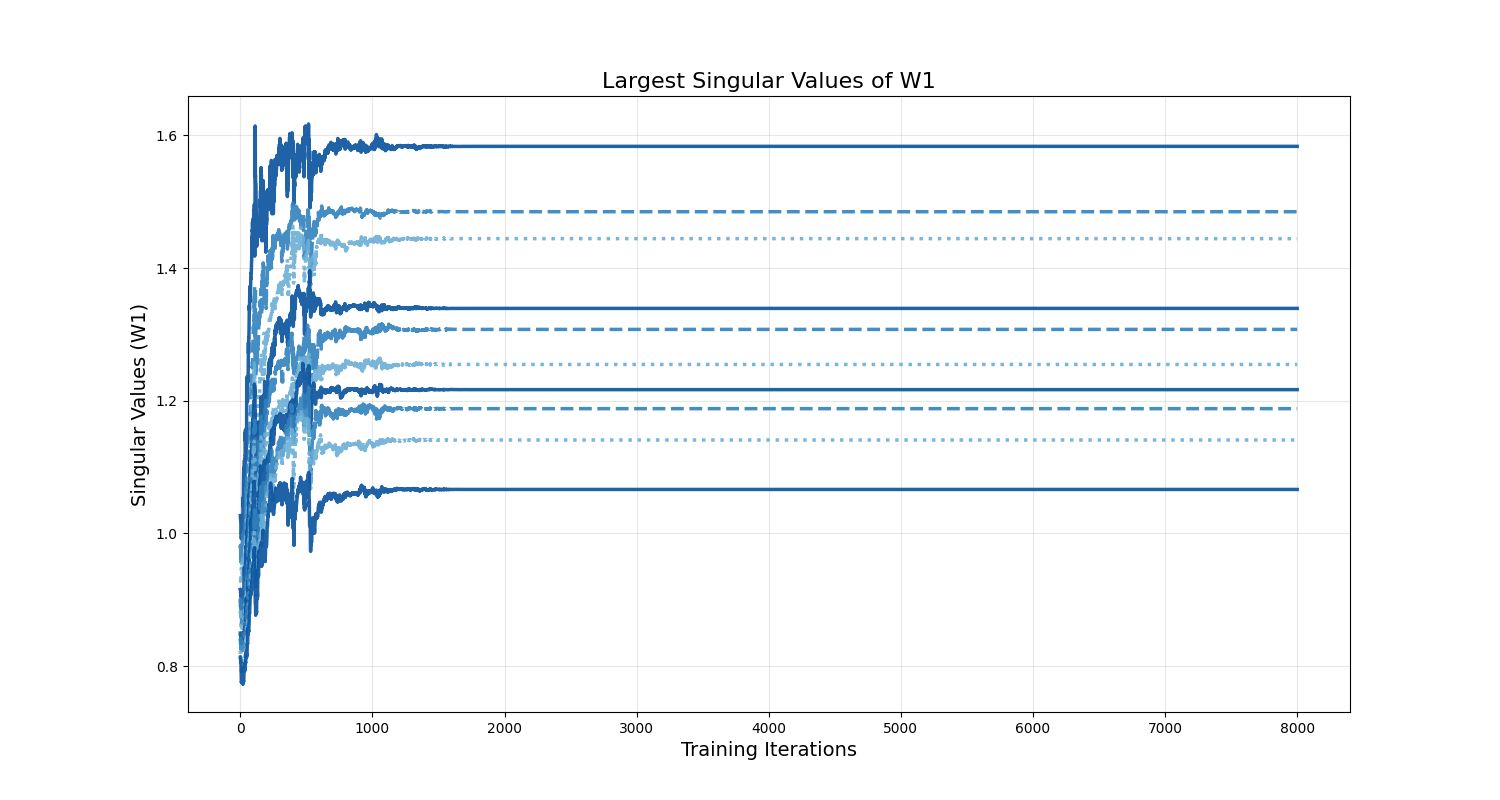
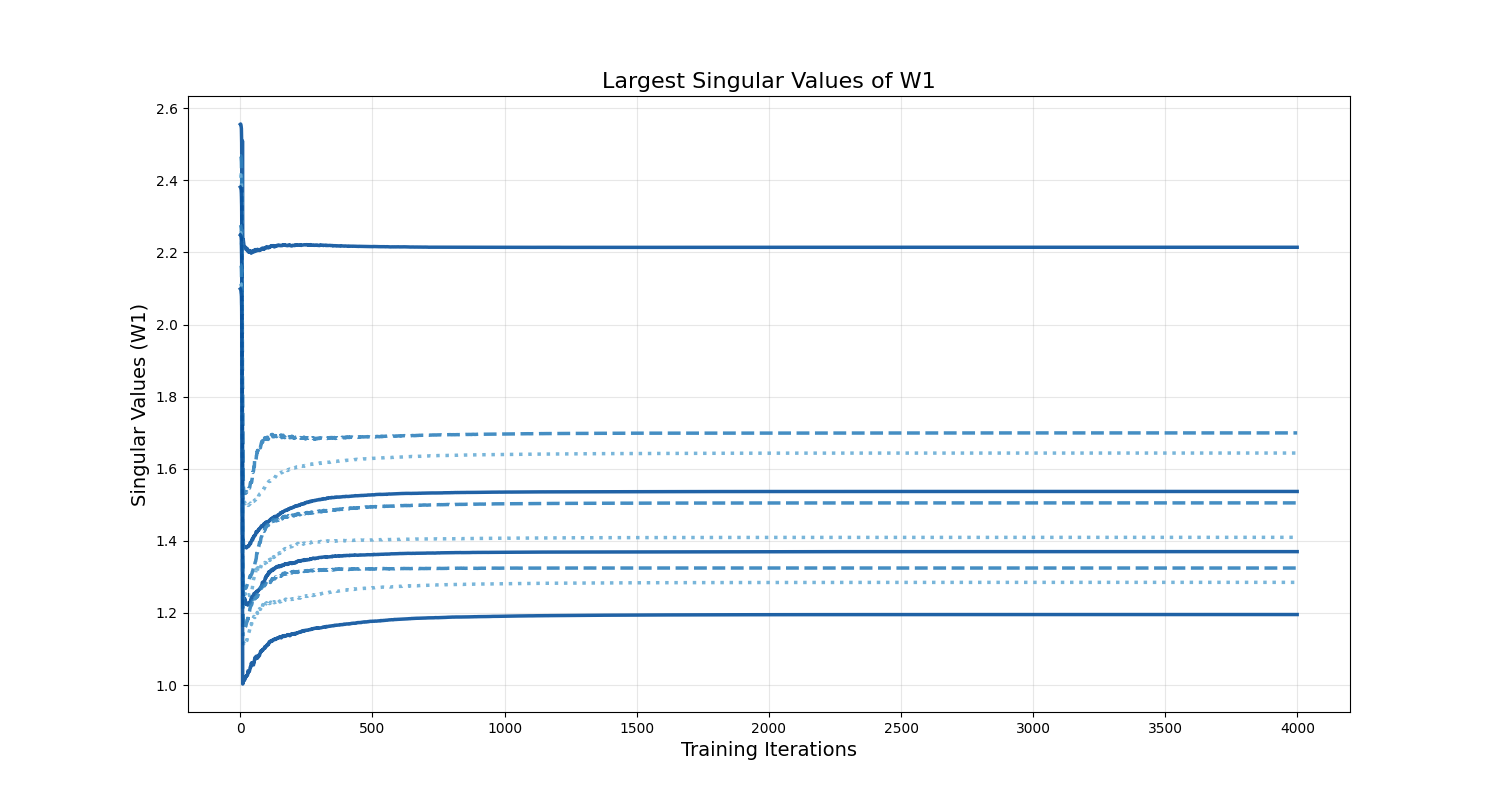
fixed overfitting

diff --git a/main.py b/main.py
@@ -10,19 +10,19 @@ from utils import generate_viz_2
 np.random.seed(23)
 torch.manual_seed(23)
 
-INPUT_DIM = 100
-NUM_SAMPLES = 1000
-TYPE = 'ls'
+INPUT_DIM = 20
+NUM_SAMPLES = 500
+TYPE = 'hs'
 
 def experiment1():
   print("Generating Dataset...")
   train_dataset, test_dataset = generate_data(NUM_SAMPLES, INPUT_DIM, type=TYPE)
 
   print("Training Catapult Model...")
-  exp = train_model(train_dataset, test_dataset, 0.22, 500, weight_decay=0.00)
+  exp = train_model(train_dataset, test_dataset, 0.1, 500, weight_decay=0.00)
 
   print("Training Control Model...")
-  ctrl = train_model(train_dataset, test_dataset, 0.0008, 500, weight_decay=0.00)
+  ctrl = train_model(train_dataset, test_dataset, 0.001, 500, weight_decay=0.00)
 
   print("Generating Visaulizations...")
   generate_viz_2(exp, ctrl, name=TYPE)

diff --git a/train.py b/train.py
@@ -9,11 +9,11 @@ from utils import compute_ranks
 np.random.seed(23)
 torch.manual_seed(23)
 
-INPUT_DIM = 100
+INPUT_DIM = 20
 
 class NN_TOY(nn.Module):
   """Simple two-layer neural network with ReLU activation."""
-  def __init__(self, input_dim=INPUT_DIM, hidden_dim=64):
+  def __init__(self, input_dim=INPUT_DIM, hidden_dim=256):
       super().__init__()
       self.fc1 = nn.Linear(input_dim, hidden_dim, bias=False)
       self.act1 = nn.ReLU() 
@@ -37,7 +37,7 @@ def train_model(train_dataset, test_dataset, lr, epochs, weight_decay=0.00):
   metrics = {
       'train_loss': [],
       'test_loss': [],
-      'top_svs': np.zeros((epochs * len(train_loader), 64)),
+      'top_svs': np.zeros((epochs * len(train_loader), 20)),
       'W1WT_rank':[],
       'frobenius_norms': [],
   }

diff --git a/utils.py b/utils.py
@@ -29,7 +29,7 @@ def compute_ranks(matrix):
   operator_norm = np.max(s)
   return nuclear_norm / operator_norm
 
-def generate_highrank_matrix(dim=1000, target_condition=10, sparsity=0.1):
+def generate_highrank_matrix(dim=1000, target_condition=1, sparsity=0.1):
   """Generate a high rank matrix with controlled condition number and sparsity."""
   # Create random orthogonal matrices
   Q1, _ = np.linalg.qr(np.random.randn(dim, dim))
